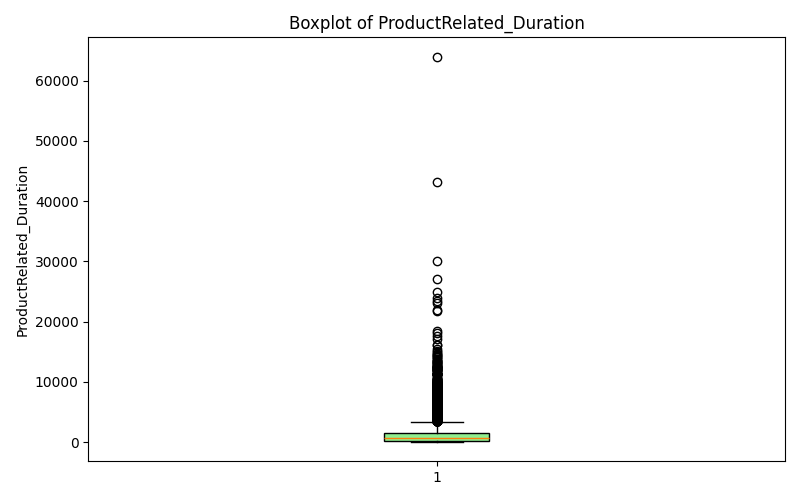
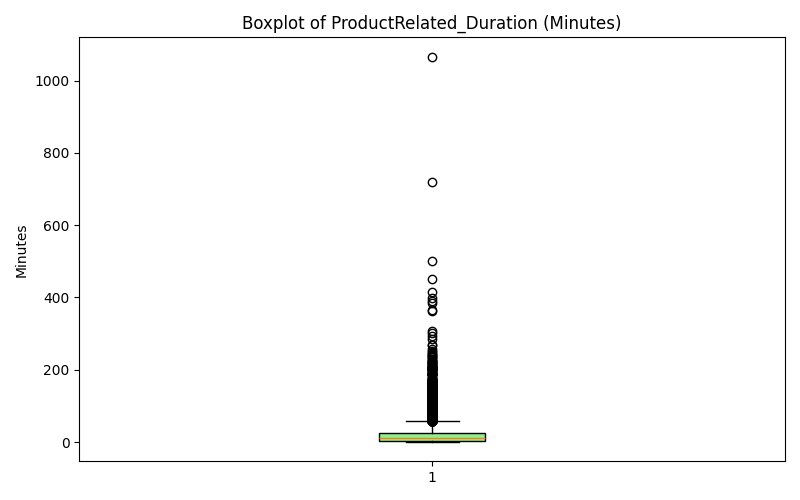
DONE

diff --git a/data.py b/data.py
@@ -12,6 +12,7 @@ FILTER_COLUMN = 'ProductRelated'
 CORRELATION_THRESHOLD = 0.85
 MINIMUM_SEGMENT_SIZE = 100
 RANDOM_SEED = 42
+SECONDS_PER_MINUTE = 60
 NUMERICAL_FEATURES = [
     'Administrative',
     'Administrative_Duration',
@@ -226,10 +227,13 @@ for result_details in chi_square_results:
     p_value = result_details['p_value']
     print(f"- {feature_name}: chi2 = {chi_square_stat:.3f}, p-value = {p_value:.6f}")
 
-selected_features = []
+selected_predictor_features = []
 for column in df_filtered.columns:
+    if column == TARGET_COLUMN:
+        continue
+
     if column not in removed_numerical_features and column not in removed_categorical_features:
-        selected_features.append(column)
+        selected_predictor_features.append(column)
 
 print("\n--- 2g) Removed Features and Justification ---")
 if removed_numerical_features:
@@ -270,8 +274,28 @@ if removed_categorical_features:
 else:
     print("\nRemoved categorical features: None")
 
-print("\nSelected features after feature selection:")
-print(selected_features)
+print("\nSelected predictor features after feature selection:")
+print(selected_predictor_features)
+print(f"Target column kept separately: {TARGET_COLUMN}")
+
+columns_to_drop_from_prepared = removed_numerical_features + removed_categorical_features
+df_prepared = df_prepared.drop(columns=columns_to_drop_from_prepared, errors='ignore')
+
+encoded_columns_to_drop = removed_numerical_features.copy()
+for removed_feature in removed_categorical_features:
+    if removed_feature in df_encoded.columns:
+        encoded_columns_to_drop.append(removed_feature)
+
+    encoded_prefix = f"{removed_feature}_"
+    for column in df_encoded.columns:
+        if column.startswith(encoded_prefix):
+            encoded_columns_to_drop.append(column)
+
+encoded_columns_to_drop = list(dict.fromkeys(encoded_columns_to_drop))
+df_encoded = df_encoded.drop(columns=encoded_columns_to_drop, errors='ignore')
+
+print(f"Prepared dataset shape after feature selection: {df_prepared.shape}")
+print(f"Encoded dataset shape after feature selection: {df_encoded.shape}")
 
 # Balance the target classes with stratified sampling.
 print("\n--- 2h) Class Imbalance Analysis and Stratified Sampling ---")
@@ -332,12 +356,22 @@ print("\n=== Part 3: Data Visualization ===")
 # Save all charts to one folder.
 visualization_dir = "visualizations"
 os.makedirs(visualization_dir, exist_ok=True)
+visualization_df = df_filtered
+pagevalues_for_plot = visualization_df['PageValues']
+product_duration_minutes = (
+    visualization_df['ProductRelated_Duration'] / SECONDS_PER_MINUTE
+)
 
 print("\n--- 3a) Histogram: PageValues ---")
 plt.figure(figsize=(8, 5))
-plt.hist(df['PageValues'], bins=30, color='steelblue', edgecolor='black')
+plt.hist(
+    pagevalues_for_plot,
+    bins=30,
+    color='steelblue',
+    edgecolor='black',
+)
 plt.title('Histogram of PageValues')
-plt.xlabel('PageValues')
+plt.xlabel('PageValues (estimated page-value score)')
 plt.ylabel('Frequency')
 histogram_path = os.path.join(visualization_dir, '3a_histogram_pagevalues.png')
 plt.tight_layout()
@@ -346,15 +380,22 @@ plt.close()
 
 print(f"Histogram saved to: {histogram_path}")
 print(
-    "Interpretation: The distribution is heavily right-skewed, which means most sessions "
-    "have low PageValues while a smaller number of sessions have very high values."
+    "Interpretation: The x-axis shows PageValues, which is an estimated page-value score "
+    "from the session, and the y-axis shows the number of sessions in each range. "
+    "The distribution is heavily right-skewed, which means most sessions have low "
+    "PageValues while a smaller number of sessions have much higher values."
 )
 
 print("\n--- 3b) Boxplot: ProductRelated_Duration ---")
 plt.figure(figsize=(8, 5))
-plt.boxplot(df['ProductRelated_Duration'], vert=True, patch_artist=True, boxprops=dict(facecolor='lightgreen'))
-plt.title('Boxplot of ProductRelated_Duration')
-plt.ylabel('ProductRelated_Duration')
+plt.boxplot(
+    product_duration_minutes,
+    vert=True,
+    patch_artist=True,
+    boxprops=dict(facecolor='lightgreen'),
+)
+plt.title('Boxplot of ProductRelated_Duration (Minutes)')
+plt.ylabel('Minutes')
 boxplot_path = os.path.join(visualization_dir, '3b_boxplot_productrelated_duration.png')
 plt.tight_layout()
 plt.savefig(boxplot_path)
@@ -362,16 +403,22 @@ plt.close()
 
 print(f"Boxplot saved to: {boxplot_path}")
 print(
-    "Interpretation: This feature shows many high-value outliers, which justifies its choice "
-    "because shopping-session duration varies strongly between casual visitors and engaged buyers."
+    "Interpretation: The y-axis is shown in minutes for readability. This feature still "
+    "shows many high-value outliers, which tells us that shopping-session duration varies "
+    "strongly between casual visitors and highly engaged buyers."
 )
 
 print("\n--- 3c) Scatterplot: ProductRelated vs ProductRelated_Duration ---")
 plt.figure(figsize=(8, 5))
-plt.scatter(df['ProductRelated'], df['ProductRelated_Duration'], alpha=0.4, color='darkorange')
-plt.title('ProductRelated vs ProductRelated_Duration')
+plt.scatter(
+    visualization_df['ProductRelated'],
+    product_duration_minutes,
+    alpha=0.4,
+    color='darkorange',
+)
+plt.title('ProductRelated vs ProductRelated_Duration (Minutes)')
 plt.xlabel('ProductRelated')
-plt.ylabel('ProductRelated_Duration')
+plt.ylabel('ProductRelated_Duration (minutes)')
 scatterplot_path = os.path.join(visualization_dir, '3c_scatter_productrelated_vs_duration.png')
 plt.tight_layout()
 plt.savefig(scatterplot_path)
@@ -380,7 +427,8 @@ plt.close()
 print(f"Scatterplot saved to: {scatterplot_path}")
 print(
     "Interpretation: The scatterplot shows a clear positive relationship. As the number of "
-    "product-related pages increases, the total time spent on those pages also tends to increase."
+    "product-related pages increases, the total time spent on those pages also tends to "
+    "increase. The y-axis is shown in minutes."
 )
 
 print("\n--- 3d) Correlation Heatmap ---")
@@ -531,8 +579,8 @@ df_sampled[ENGINEERED_FEATURE] = (
     df_sampled['ProductRelated_Duration'] / df_sampled['ProductRelated']
 )
 
-if ENGINEERED_FEATURE not in selected_features:
-    selected_features.append(ENGINEERED_FEATURE)
+if ENGINEERED_FEATURE not in selected_predictor_features:
+    selected_predictor_features.append(ENGINEERED_FEATURE)
 
 print(f"New feature created: {ENGINEERED_FEATURE}")
 print("Definition: ProductRelated_Duration / ProductRelated")

diff --git a/README.md b/README.md
@@ -65,10 +65,10 @@ Below is the practical meaning of each feature.
 | `Informational` | Number of informational pages visited | Numerical |
 | `Informational_Duration` | Time spent on informational pages | Numerical |
 | `ProductRelated` | Number of product-related pages visited | Numerical |
-| `ProductRelated_Duration` | Time spent on product-related pages | Numerical |
+| `ProductRelated_Duration` | Time spent on product-related pages, stored in seconds in the dataset | Numerical |
 | `BounceRates` | Bounce-rate related session signal | Numerical |
 | `ExitRates` | Exit-rate related session signal | Numerical |
-| `PageValues` | Estimated value accumulated before purchase or exit | Numerical |
+| `PageValues` | Estimated page-value score from the session before purchase or exit; it is not the same as the final revenue amount | Numerical |
 | `SpecialDay` | Closeness of the session to a special day | Numerical |
 | `Month` | Month of the visit | Categorical |
 | `OperatingSystems` | Visitor operating system category | Categorical |
@@ -213,10 +213,12 @@ numerical_features = [
     'SpecialDay',
 ]
 
-numerical_stats = df[numerical_features].agg(['mean', 'median', 'std']).T
-numerical_percentiles = df[numerical_features].quantile([0.20, 0.50, 0.75]).T
-numerical_percentiles.columns = ['20%', '50%', '75%']
-stats = numerical_stats.join(numerical_percentiles)
+mean_values = df[numerical_features].mean()
+median_values = df[numerical_features].median()
+std_values = df[numerical_features].std()
+percentile_20 = df[numerical_features].quantile(0.20)
+percentile_50 = df[numerical_features].quantile(0.50)
+percentile_75 = df[numerical_features].quantile(0.75)
 ```
 
 Why it exists:
@@ -450,6 +452,7 @@ This section prints a human-readable explanation for removed features rather tha
 
 That is good practice because it makes the logic auditable.
 In this project, the removed features are `ProductRelated_Duration`, `ExitRates`, and `Region`.
+The script now also drops those removed columns from `df_prepared` and `df_encoded`, while keeping `Revenue` separate as the target instead of treating it like an input feature.
 
 #### 2h. Handle class imbalance
 
@@ -458,7 +461,8 @@ Because `Revenue=False` is much more common than `Revenue=True`, the script uses
 ```python
 minority_class_size = int(class_distribution_before.min())
 
-for _, class_subset in df_filtered.groupby('Revenue'):
+for class_value in [False, True]:
+    class_subset = df_filtered[df_filtered['Revenue'] == class_value]
     stratified_samples.append(class_subset.sample(n=minority_class_size, random_state=42))
 ```
 
@@ -501,6 +505,8 @@ Why this chart:
 
 Interpretation:
 
+- the x-axis shows `PageValues`, which is an estimated page-value score from the session
+- the y-axis shows the number of sessions in each bin
 - most sessions have low page value
 - a smaller number of sessions have very high page value
 
@@ -513,6 +519,7 @@ Why this chart:
 
 Interpretation:
 
+- the values are displayed in minutes for readability, even though the dataset stores them in seconds
 - there are many high-value outliers
 
 #### 3c. Scatterplot of `ProductRelated` vs `ProductRelated_Duration`
@@ -524,6 +531,7 @@ Why this chart:
 
 Interpretation:
 
+- the y-axis is shown in minutes for readability
 - there is a positive relationship
 
 #### 3d. Correlation heatmap
@@ -751,39 +759,48 @@ CATEGORICAL_FEATURES_FOR_SELECTION = MULTI_CATEGORY_FEATURES + ['Weekend']
 
 This is Python's built-in list type.
 
-### List comprehension
+### Building a list with a loop
 
 Example:
 
 ```python
-selected_features = [
-    column for column in df_filtered.columns
-    if column not in removed_numerical_features and column not in removed_categorical_features
-]
+selected_predictor_features = []
+for column in df_filtered.columns:
+    if column == TARGET_COLUMN:
+        continue
+
+    if column not in removed_numerical_features and column not in removed_categorical_features:
+        selected_predictor_features.append(column)
 ```
 
-This is a compact way to build a list.
+This builds a list one step at a time.
 
 Equivalent mental model:
 
 - loop over all columns
+- skip the target column
 - keep only the columns that satisfy the condition
 - store the kept ones in a new list
 
-### Tuples
+### Dictionaries
 
 Example:
 
 ```python
-chi_square_results.append((column, chi_square_stat, p_value))
+result_details = {
+    'feature': column,
+    'chi_square': chi_square_stat,
+    'p_value': p_value,
+}
+chi_square_results.append(result_details)
 ```
 
-This adds a tuple containing three values.
+This adds one dictionary containing named values.
 
-Think of a tuple as:
+Think of a dictionary as:
 
-- a small fixed-size group of values
-- similar to a lightweight record without a named class
+- a small group of named values
+- easier to read than remembering positions like item 0, item 1, and item 2
 
 ### Indentation matters
 
